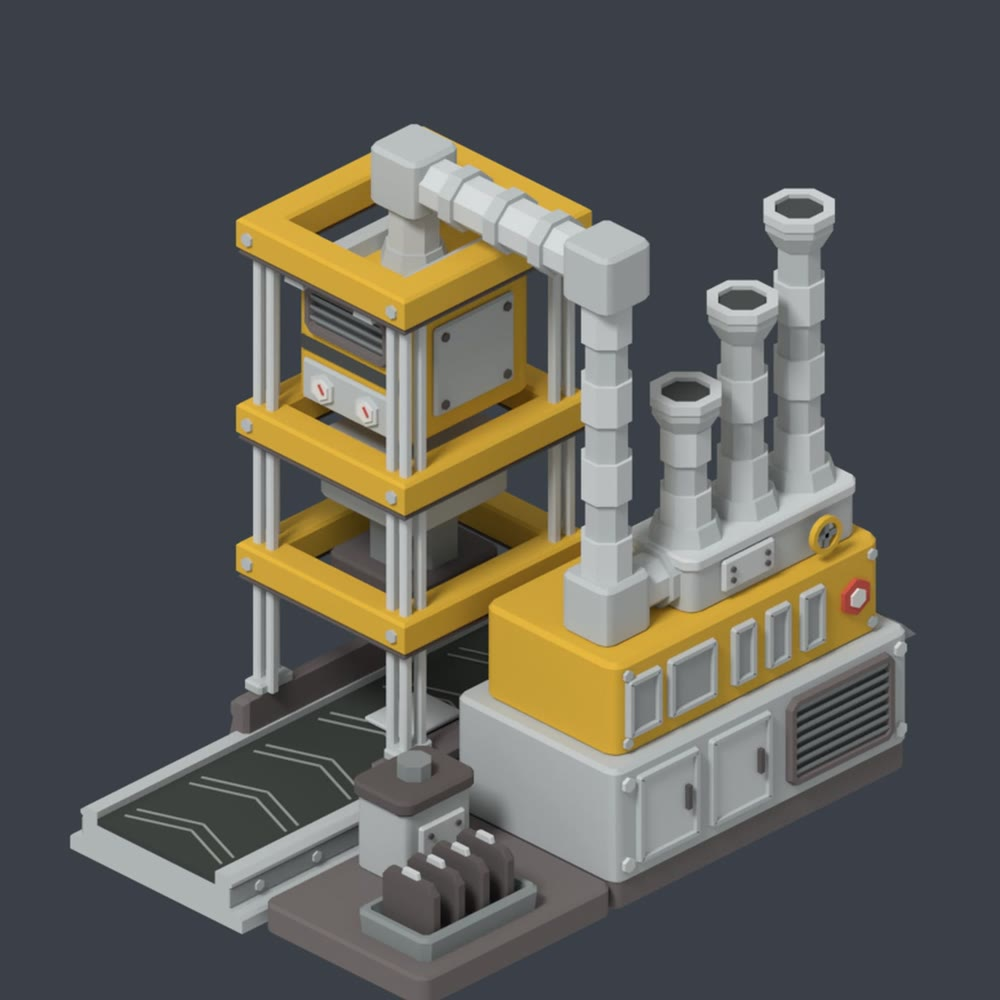
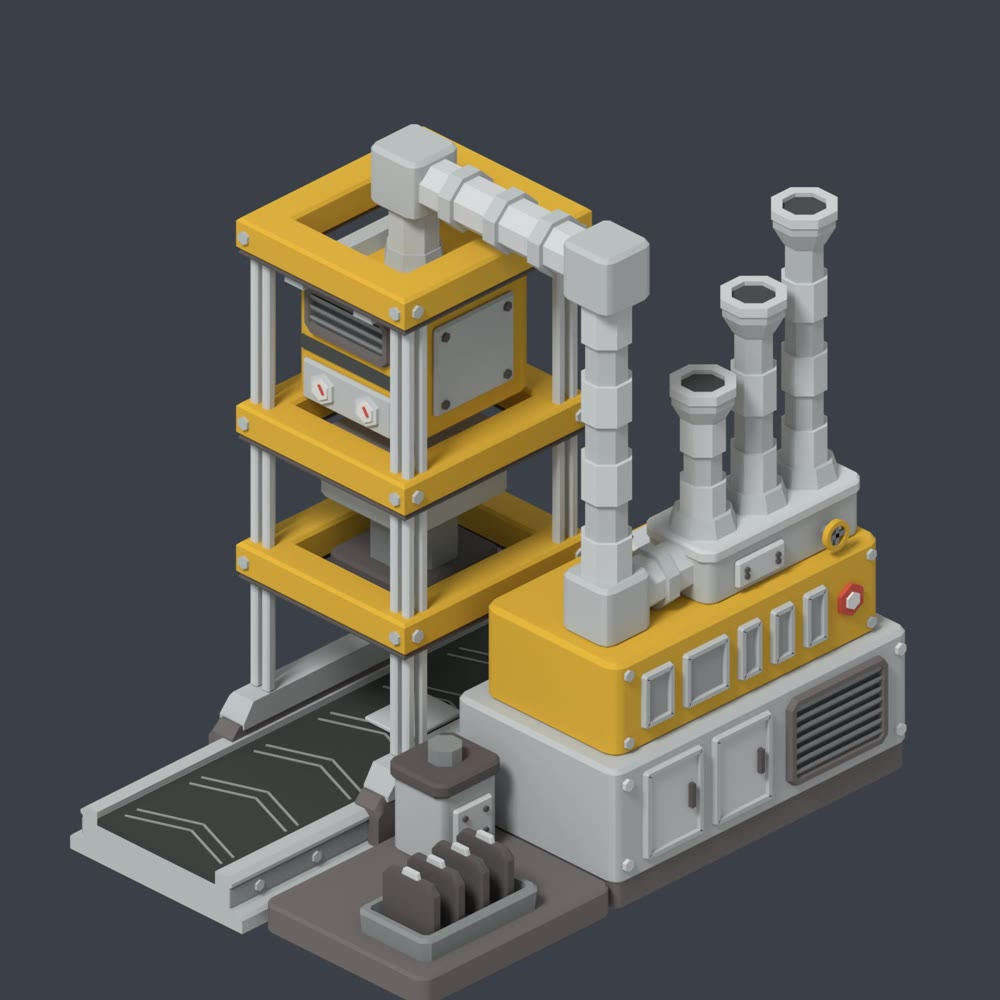
Former: give every joint, bolt and panel room, and a designed seat on the belt
The developer's five notes on former5:
- the pipe's joint ran into the plenum and the first stack: the plenum
  starts further from the elbow and the collar sits half way between
- the press met the belt badly: rods on small shoes overhanging a belt
  collar. Now a dark sill over each rail and a grey bed on it, both
  sloping down at their ends, with the rods standing inside the bed's top
- bolts ran into panels: doors, louvres, panels and bolts on each wall
  now keep clear wall between them; the rods stand wholly inside the
  frames' beams; the pump's pipe really enters the sill
- the sloped hood over the end louvres had no reason and is gone
- frame bolts were on one face only: every corner is bolted on both faces

Also written down: the grammar the developer found in Islands' machines,
that a frame is left open above whatever gives off steam or smoke.

Claude-Session: https://claude.ai/code/session_01W5XMnWw2PL68atZgiMiQxw

diff --git a/art/v2/set2.py b/art/v2/set2.py
@@ -4,6 +4,7 @@
 # with soft shadows.
 import math
 import factorykit as fk
+from .base import loft_x
 from . import hero as _hero
 from . import pairs as _pairs
 from .base import foot_hearth, foot_drain
@@ -2118,17 +2119,26 @@ def former5(m, paint=None):
     yb = 0.5
     with m.at((0, yb, 0)):
         run(m, -1.5, 1.5, braces=(-4 / 3, -1.0, 1.0, 4 / 3))
-        collar(m, -0.62, 0.62, mk=T)
+        # The press's seat on the belt, in two courses, each wide enough to carry what stands on it and each
+        # sloping down at its ends: a dark sill over each rail, and on it a grey bed whose flat top the rods
+        # stand on (they used to stand on small shoes that hung over the edge of a belt collar).
         Zc = 0.385
+        low = [(0.356, 0.04), (0.494, 0.04), (0.494, 0.245), (0.468, 0.29), (0.356, 0.29)]
+        low_end = [(0.356, 0.04), (0.494, 0.04), (0.494, 0.215), (0.468, 0.245), (0.356, 0.245)]
+        up = [(0.348, 0.27), (0.49, 0.27), (0.49, 0.357), (0.466, Zc), (0.348, Zc)]
+        up_end = [(0.348, 0.27), (0.49, 0.27), (0.49, 0.295), (0.466, 0.30), (0.348, 0.30)]
+        for sy in SIDES:
+            loft_x(m, [(x, [(sy * y, z) for y, z in o]) for x, o in ((-0.70, low_end), (-0.66, low), (0.66, low), (0.70, low_end))], T)
+            loft_x(m, [(x, [(sy * y, z) for y, z in o]) for x, o in ((-0.64, up_end), (-0.585, up), (0.585, up), (0.64, up_end))], G)
         fz = ((0.92, 1.07), (1.58, 1.73), (2.46, 2.61))       # the three frames
+        RX, RY = 0.475, 0.44                                  # the corner rod; the two others stand in from it, one each way
         for sx in SIDES:
             for sy in SIDES:
-                m.box((0.20, 0.10, 0.055), (sx * 0.44, sy * 0.405, Zc + 0.022), G, bevel=0.012)          # shoe
-                for dx, dy in ((0.0, 0.0), (-0.085, 0.0), (0.0, -0.075)):                                # three rods to a corner
-                    m.box((0.044, 0.044, fz[2][0] + 0.02 - Zc), (sx * (0.475 + dx), sy * (0.425 + dy), (fz[2][0] + 0.02 + Zc) / 2), LT, bevel=0.008)
+                for dx, dy in ((0.0, 0.0), (-0.075, 0.0), (0.0, -0.068)):                                # three rods to a corner, all inside the frames' beams
+                    m.box((0.044, 0.044, fz[2][0] + 0.02 - Zc), (sx * (RX + dx), sy * (RY + dy), (fz[2][0] + 0.02 + Zc) / 2), LT, bevel=0.008)
         for z0, z1 in fz:
-            frame_ring(m, 0.545, 0.49, z0, z1, 0.15, paint)
-            frame_ring(m, 0.538, 0.483, z0 - 0.03, z0 + 0.004, 0.13, TD)
+            frame_ring(m, 0.545, 0.49, z0, z1, 0.17, paint)
+            frame_ring(m, 0.538, 0.483, z0 - 0.03, z0 + 0.004, 0.15, TD)
         for y in (-0.2, 0.2):                                 # cross beams under the top frame; the head hangs from them
             m.prism([(y - 0.055, 2.385), (y + 0.055, 2.385), (y + 0.04, 2.465), (y - 0.04, 2.465)], -0.50, 0.50, "X", G)
         slab(m, 0.37, 0.335, 1.76, 2.395, 0.05, paint, bevel=0.025)                                         # the head
@@ -2148,15 +2158,17 @@ def former5(m, paint=None):
                 m.box((0.012, 0.046, 0.008), (y + 0.01, 0.008, 0.052), "h_red", rot=0.6)
         with on_side(m, -1, -0.335, 2.08):                    # and its near face
             bolted(m, 0.46, 0.42, G)
-        for sx in SIDES:                                      # bolts in the frames' corners
-            for z0, z1 in fz:
-                for y in (-0.42, 0.42):
-                    with on_end(m, sx, sx * 0.545, y, (z0 + z1) / 2):
+        for z0, z1 in fz:                                     # every corner of every frame is bolted through to its rod from both faces
+            for sx in SIDES:
+                for sy in SIDES:
+                    with on_end(m, sx, sx * 0.545, sy * RY, (z0 + z1) / 2):
+                        m.cyl(0.03, 0.016, (0, 0, 0.006), G, seg=6)
+                    with on_side(m, sy, sy * 0.49, (z0 + z1) / 2, xc=sx * RX):
                         m.cyl(0.03, 0.016, (0, 0, 0.006), G, seg=6)
     # the fat duct: up out of the head, through a box, across, through a box, down into the house's roof
     rd, zd, yd = 0.105, 2.80, -0.62
     with m.at((0, yb, 0)):
-        octa(m, rd + 0.035, rd + 0.01, 2.385, 2.47, G)
+        octa(m, rd + 0.02, rd + 0.005, 2.385, 2.47, G)                                                   # clear of the cross beams either side
         octa(m, rd, rd, 2.46, zd - 0.12, LT)
         slab(m, 0.14, 0.14, zd - 0.14, zd + 0.14, 0.03, G, bevel=0.02)
     m.cyl(rd * K, yb - yd - 0.26, (0, (yb + yd) / 2, zd), LT, seg=8, axis="Y", rot=(0, rad(22.5), 0))
@@ -2174,15 +2186,16 @@ def former5(m, paint=None):
         for k in range(4):
             with m.at((-0.215 + k * 0.143, 0, 0)):
                 mould(m, 0.17)
-    pump = (0.20, 0.15, 0.03)
-    with m.at((-0.74, -0.24, 0)):
+    pump = (0.17, 0.15, 0.03)
+    xq = -0.56                                                # beside the press's sill, so that its pipe goes into the sill
+    with m.at((xq, -0.24, 0)):
         slab(m, pump[0], pump[1], 0.13, 0.50, pump[2], G, bevel=0.016)
         slab(m, pump[0] + 0.02, pump[1] + 0.02, 0.48, 0.55, cut_to(pump[0] + 0.02, pump[1] + 0.02, pump, 0.02), TD, bevel=0.014)
         octa(m, 0.07, 0.07, 0.54, 0.62, ST)
-    with on_side(m, -1, -0.24 - pump[1], 0.31, xc=-0.74):
-        bolted(m, 0.26, 0.20, LT, r=0.014)
-    m.cyl(0.05, 0.12, (-0.74, -0.04, 0.30), LT, seg=8, axis="Y", rot=(0, rad(22.5), 0))
-    m.cyl(0.066, 0.03, (-0.74, -0.08, 0.30), G, seg=8, axis="Y", rot=(0, rad(22.5), 0))
+    with on_side(m, -1, -0.24 - pump[1], 0.31, xc=xq):
+        bolted(m, 0.22, 0.20, LT, r=0.014)
+    m.cyl(0.045, 0.14, (xq, -0.03, 0.19), LT, seg=8, axis="Y", rot=(0, rad(22.5), 0))
+    m.cyl(0.06, 0.03, (xq, -0.035, 0.19), G, seg=8, axis="Y", rot=(0, rad(22.5), 0))
     hx0, hx1 = -0.30, 1.42
     xc, hx = (hx0 + hx1) / 2, (hx1 - hx0) / 2
     body = (hx - 0.08, 0.39, 0.045)
@@ -2191,28 +2204,29 @@ def former5(m, paint=None):
         slab(m, hx, 0.47, 0.12, 0.665, 0.035, G, bevel=0.02)                                             # cabinet
         slab(m, body[0], body[1], 0.655, 1.10, body[2], paint, bevel=0.022)                                 # the painted body
     yf, ye = -0.97, hx1
-    for x in (0.0, 0.42):                                     # cabinet front: two framed doors with handles, a big louvre
+    # Nothing on a wall touches or overlaps its neighbour: bolts, doors, louvres and panels each keep at least
+    # 0.05 of bare wall between them (the developer: bolts and joints must not run into other trim).
+    for x in (0.03, 0.43):                                    # cabinet front: two framed doors with handles, a big louvre
         with on_side(m, -1, yf, 0.40, xc=x):
-            framed(m, 0.36, 0.42, LT)
-            m.box((0.022, 0.11, 0.022), (0.11, 0, 0.02), TD)
-    with on_side(m, -1, yf, 0.40, xc=1.0):
-        vent(m, 0.31, 0.21)
-    for y in (-0.72, -0.28):                                  # cabinet end: two louvres under a sloped hood
-        with on_end(m, 1, ye, y, 0.36):
-            vent(m, 0.19, 0.19)
-    m.prism([(ye - 0.01, 0.585), (ye - 0.01, 0.665), (ye + 0.07, 0.585)], -0.93, -0.07, "Y", ST)
-    for x in (hx0 + 0.07, hx1 - 0.07):                        # heavy bolts at the cabinet's corners
+            framed(m, 0.34, 0.42, LT)
+            m.box((0.022, 0.11, 0.022), (0.10, 0, 0.02), TD)
+    with on_side(m, -1, yf, 0.40, xc=0.98):
+        vent(m, 0.29, 0.21)
+    for y in (-0.71, -0.29):                                  # cabinet end: two louvres (a sloped hood stood over them; the
+        with on_end(m, 1, ye, y, 0.39):                       # developer asked what it was for, and it is gone)
+            vent(m, 0.18, 0.19)
+    for x in (hx0 + 0.068, hx1 - 0.068):                      # heavy bolts at the cabinet's corners
         for z in (0.21, 0.59):
             with on_side(m, -1, yf, z, xc=x):
-                m.cyl(0.034, 0.02, (0, 0, 0.008), LT, seg=6)
+                m.cyl(0.028, 0.02, (0, 0, 0.008), LT, seg=6)
     yp = -0.5 - body[1]                                       # the painted body's front: a row of framed panels, a badge
-    for x, w in ((-0.06, 0.20), (0.22, 0.28), (0.52, 0.14), (0.72, 0.14), (0.92, 0.14)):
+    for x, w in ((0.02, 0.18), (0.30, 0.26), (0.555, 0.13), (0.745, 0.13), (0.935, 0.13)):
         with on_side(m, -1, yp, 0.88, xc=x):
-            framed(m, w, 0.28)
-    with on_side(m, -1, yp, 0.88, xc=1.17):
-        m.cyl(0.085, 0.022, (0, 0, 0.008), "h_red", seg=6)
-        m.cyl(0.045, 0.012, (0, 0, 0.024), "h_white", seg=6)
-    for x in (hx0 + 0.15, hx1 - 0.15):
+            framed(m, w, 0.26)
+    with on_side(m, -1, yp, 0.88, xc=1.14):
+        m.cyl(0.075, 0.022, (0, 0, 0.008), "h_red", seg=6)
+        m.cyl(0.04, 0.012, (0, 0, 0.024), "h_white", seg=6)
+    for x in (hx0 + 0.155, hx1 - 0.155):                      # in the wall's own corners, clear of the panels and the badge
         for z in (0.72, 1.04):
             with on_side(m, -1, yp, z, xc=x):
                 m.cyl(0.026, 0.016, (0, 0, 0.006), G, seg=6)
@@ -2228,30 +2242,31 @@ def former5(m, paint=None):
             za = Zr + 0.26 + k * h
             wide = k % 2 == 0
             octa(m, rd if wide else rd * 0.84, rd if wide else rd * 0.84, za, za + h + 0.004, LT if wide else G)
-    px0, px1, ph, pz = 0.30, 1.28, 0.19, Zr + 0.25            # the plenum: its ends, half width, top
-    m.cyl(rd * K, px0 - 0.13 + 0.02, ((px0 + 0.13) / 2, yl, Zr + 0.13), LT, seg=8, axis="X", rot=(rad(22.5), 0, 0))
-    m.cyl((rd + 0.024) * K, 0.04, (px0 - 0.02, yl, Zr + 0.13), G, seg=8, axis="X", rot=(rad(22.5), 0, 0))
+    px0, px1, ph, pz = 0.40, 1.305, 0.19, Zr + 0.25           # the plenum: its ends, half width, top. It starts well clear of the
+    xj = (0.14 + px0) / 2                                     # elbow, and the pipe's one collar sits half way, touching neither
+    m.cyl(rd * K, px0 - 0.13 + 0.02, ((px0 + 0.13) / 2 + 0.005, yl, Zr + 0.13), LT, seg=8, axis="X", rot=(rad(22.5), 0, 0))
+    m.cyl((rd + 0.022) * K, 0.06, (xj, yl, Zr + 0.13), G, seg=8, axis="X", rot=(rad(22.5), 0, 0))
     with m.at(((px0 + px1) / 2, yl, 0)):
         slab(m, (px1 - px0) / 2, ph, Zr - 0.01, pz, 0.04, G, bevel=0.02)
         slab(m, (px1 - px0) / 2 + 0.012, ph + 0.012, pz - 0.05, pz + 0.012, cut_to((px1 - px0) / 2 + 0.012, ph + 0.012, ((px1 - px0) / 2, ph, 0.04), 0.012), LT, bevel=0.012)
     tops = (2.02, 2.32, 2.62)
-    xs_ = (0.46, 0.79, 1.12)
+    xs_ = (0.56, 0.855, 1.15)                                 # their feet stand side by side on the plenum, inside its ends
     for x, top in zip(xs_, tops):                             # (a rail clamped the three together; the developer asked for it gone)
-        fat_stack(m, x, yl, pz, top, 0.105)
-    with on_side(m, -1, yl - ph, Zr + 0.125, xc=0.62):       # on the plenum's near face: a hatch and a handwheel
-        bolted(m, 0.30, 0.15, LT, r=0.014)
-    with on_side(m, -1, yl - ph, Zr + 0.125, xc=1.02):
-        m.cyl(0.026, 0.07, (0, 0, 0.03), ST, seg=8)
-        ring_round(m, 0.085, 0.06, 0.05, 0.078, paint, seg=14)
+        fat_stack(m, x, yl, pz, top, 0.095)
+    with on_side(m, -1, yl - ph, Zr + 0.10, xc=0.69):        # on the plenum's near face, below its rim: a hatch and a handwheel
+        bolted(m, 0.28, 0.13, LT, r=0.014)
+    with on_side(m, -1, yl - ph, Zr + 0.10, xc=1.08):
+        m.cyl(0.024, 0.07, (0, 0, 0.03), ST, seg=8)
+        ring_round(m, 0.068, 0.046, 0.05, 0.078, paint, seg=14)
         for k in range(2):
-            m.box((0.14, 0.022, 0.018), (0, 0, 0.064), ST, rot=k * math.pi / 2)
+            m.box((0.11, 0.02, 0.018), (0, 0, 0.064), ST, rot=k * math.pi / 2)
     m.box((0.46, 0.20, 0.03), (0.74, -0.26, Zr + 0.01), LT, bevel=0.012)                                 # a hatch in the roof behind
     for sx in SIDES:
         for sy in SIDES:
             m.cyl(0.02, 0.012, (0.74 + sx * 0.19, -0.26 + sy * 0.065, Zr + 0.03), TD, seg=6)
 
 
-former5.frame, former5.shadow = {"iso": (4.7, 1.45), "side": (4.4, 1.5), "top": (3.9, 0.6), "end": (3.6, 1.5)}, True
+former5.frame, former5.shadow, former5.res = {"iso": (4.7, 1.45), "side": (4.4, 1.5), "top": (3.9, 0.6), "end": (3.6, 1.5)}, True, 1600
 _hero.HEROES["former5"] = former5
 
 

diff --git a/docs/modeling-principles.md b/docs/modeling-principles.md
@@ -38,6 +38,11 @@
 - **큰 기계일수록 부품도 굵고 촘촘해야 합니다.** 제철소의 첫 시안은 3×3칸짜리인데도 민짜 상자 건물 위에 민짜 탑을 세우고 가는 레일과 관을 드문드문 붙인 것이어서, 개발자가 "어째 2급보다 구리냐"고 했습니다(2026-10-07). 덩치만 키우고 부품의 굵기와 수를 그대로 두면 휑해 보입니다. 몸통부터 모양을 냅니다(비스듬한 어깨, 짙은 끝벽과 갈비). 통과한 방식은 `former2`와 같습니다: 참고 기계(새티스팩토리의 주조소)의 덩어리 구성을 통째로 따르고, 부품은 우리 것을 씁니다(`blast5`).
 - **덩어리는 굵게, 겉은 빽빽하게, 회색 바탕에 칠 한 색.** 이것이 통과한 생김새입니다. 성형기 `former5`를 보고 개발자가 "그건데????"라고 했습니다(2026-10-08). 기둥은 한 모서리에 여러 개를 묶고, 틀은 여러 층으로 두르고, 굴뚝과 관은 굵게 하고 마디마다 굵기와 명암을 번갈아 주고, 관은 상자 이음에서 꺾고, 벽에는 테 두른 판과 문과 통풍 창과 볼트를 줄지어 붙입니다. 그 전에 빗나간 것들: 덩어리만 가져오고 겉을 비운 것은 "너무 단순해서 공장 맛이 안 난다", 덩어리 자체를 잘게 쪼갠 것은 "핵별로", 매끈하게 닫은 것은 "연구소 느낌". 개발자가 아일랜드의 프레스와 우리 것을 나란히 놓고 "우리 모델이 너무 단순하다. 많이 복잡하고 있어 보이는데 투박하게"라고 짚은 것이 기준이 됐습니다. 지금은 아일랜드와 너무 닮았다는 숙제가 남아 있습니다.
 - **빽빽하게 하되, 갖다 붙이지 않습니다.** 굴뚝 여섯과 관 하나를 지붕에 따로따로 세웠더니 개발자와 친구가 "무지성으로 갖다 붙인 느낌"이라고 했습니다(2026-10-08). 부품을 늘릴 때는 하나의 계통으로 잇습니다: 관은 어디서 나와 어디로 들어가고, 굴뚝들은 한 통에서 솟아 한 줄로 서고 띠로 묶입니다. 높이는 제멋대로가 아니라 차례로 높아집니다. `former5`의 지붕이 본보기입니다(머리 → 굵은 관 → 상자 이음 → 모음통 → 차례로 높아지는 굴뚝 셋).
+- **꾸밈끼리 닿거나 겹치지 않습니다.** 볼트, 관의 이음, 판, 문, 통풍 창은 저마다 둘레에 맨 벽을 남깁니다(`former5`에서는 0.05칸 이상). 볼트가 판의 테에 걸치거나, 관의 이음 고리가 통의 끝과 굴뚝 발에 한꺼번에 붙거나, 기둥이 틀의 안쪽 모서리에 반쯤 걸치면 대충 붙인 것으로 보입니다(개발자, 2026-10-08).
+- **같은 일을 하는 부품은 어디서나 같은 식으로 붙습니다.** 틀의 모서리 볼트는 한쪽 면에만 두지 않고 모서리의 두 면에 다 둡니다.
+- **왜 있는지 답할 수 없는 조각은 두지 않습니다.** 통풍 창 위의 비스듬한 덮개에 개발자가 "이건 왜 있음?"이라고 물었고, 답이 궁해서 뺐습니다.
+- **기계가 벨트에 앉는 자리도 설계합니다.** 가는 기둥을 작은 신발에 얹어 벨트 고리 가장자리에 걸쳐 두었더니 "접합이 자연스럽지 않다"고 했습니다. 레일을 덮는 짙은 받침과 그 위의 회색 받침대를 두 단으로 놓고, 끝은 비스듬히 내려 레일로 이어지게 하고, 기둥은 받침대의 평평한 윗면 안에 다 들어오게 세웁니다.
+- **김이나 연기가 올라갈 자리 위는 틀을 뚫어 둡니다.** 개발자가 아일랜드의 공장들에서 찾아낸 문법입니다(2026-10-08): 굴뚝이나 뜨거운 통 위를 지나는 틀은 바로 그 자리가 열려 있습니다. 틀은 지붕이 아니라 뼈대이고, 무엇이 솟는 자리는 비워 둡니다. `former5`의 굵은 관도 열린 틀 한가운데로 올라갑니다.
 - 새 기계를 앞서 만든 기계의 조각으로 짜깁지 않습니다. 성형기의 첫 시안은 프레스의 머리를 그대로 가져오고 용광로의 전원함과 관을 얹은 것이었고, 개발자가 "너무 제작기랑 용광로 재탕 느낌"이라며 버렸습니다(2026-10-07). 기계마다 덩어리 구성(실루엣)부터 새로 잡습니다. 참고할 기계가 있으면 부품 하나가 아니라 전체 구성을 따릅니다. 통과한 것은 새티스팩토리의 제작기를 덩어리째 따른 `former2`입니다.
 - 물어봐야 알 수 있는 부품은 실패한 부품입니다. 개발자가 "이건 뭐니", "뭘 표현함?"이라고 물은 것들(아령 같은 들보, 쇳물 홈통과 틀 상자, 도넛)은 전부 빼거나 다시 만들었습니다.
 - 빛나는 것은 테두리나 창살 뒤 안쪽에 둡니다.
